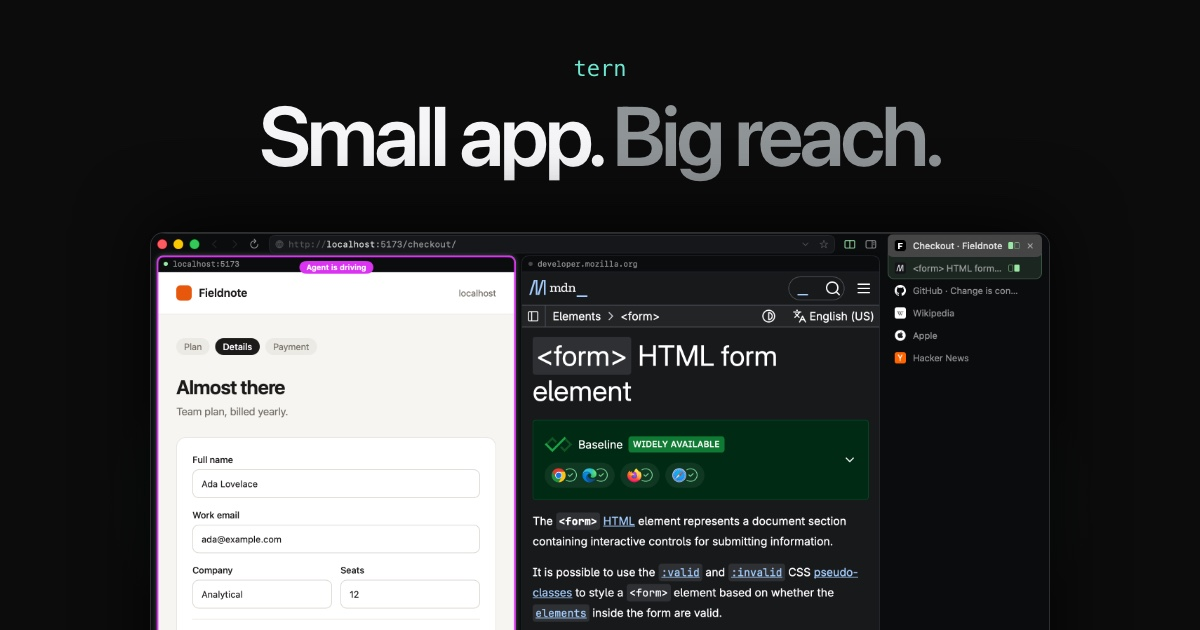
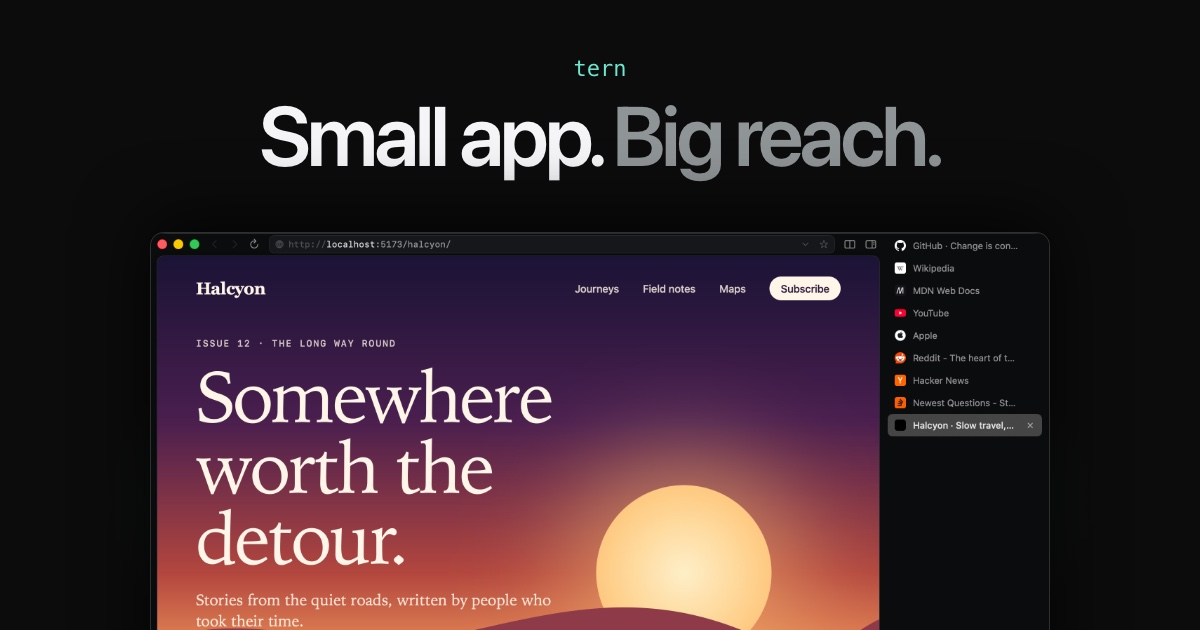
Use a made-up page in the hero screenshot

diff --git a/site/src/routes/+page.svelte b/site/src/routes/+page.svelte
@@ -93,7 +93,7 @@
     </div>
     <div class="wrap wide shot">
       <div class="window" bind:this={hero}>
-        <enhanced:img src="../lib/assets/hero.png" alt="An agent filling in a checkout form in Tern, with a purple ring around its pane and docs in a split beside it, and the tab list on the right." sizes="(min-width: 1240px) 1200px, 100vw" fetchpriority="high"></enhanced:img>
+        <enhanced:img src="../lib/assets/hero.png" alt="Tern showing a travel magazine page, with the address bar across the top and vertical tabs on the right." sizes="(min-width: 1240px) 1200px, 100vw" fetchpriority="high"></enhanced:img>
       </div>
     </div>
     <div class="wrap">

diff --git a/README.md b/README.md
@@ -8,7 +8,7 @@
   <a href="docs/development.md">Development</a>
 </p>
 
-![An agent filling in a checkout form in Tern, with a purple ring around its pane and docs in a split beside it, and the tab list on the right](docs/hero.png)
+![Tern showing a travel magazine page, with the address bar across the top and vertical tabs on the right](docs/hero.png)
 
 > **Status:** early and moving fast. Tern works as a daily browser, but there are no prebuilt releases yet. Build it from source, which takes about a minute.
 
